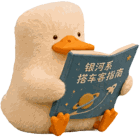
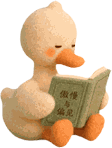
fix(pets): 天鹅/鸭嘴兽素材装反 + 今日页宠物放大并让书名看得清
1) libra(天秤=天鹅) 与 aquarius(水瓶=鸭嘴兽) 的素材整组装反。判据是原型内嵌图的变量名：\n   #68-71=SCENE_SWAN_*、#88-91=SCENE_PLATYPUS_*，#8/#12 的 alt 亦写明「天鹅/鸭嘴兽」。\n   已交换本地 assets/pets/*.png 与云存储 anim/、scene/ 下的同名文件（8 段动图 + 2 张场景图）。\n2) 今日页宠物展示尺寸 540x330 -> 622x380rpx（+15%）：看书时书封面的书名太小看不清。\n3) orange-read.gif 重制为 482x340（2 倍分辨率）+ 多帧采样调色板，\n   原先只用首帧取 256 色，把书名这种小面积深色细节量化糊了。\n4) PET_SHIFT 全表用真实素材重扫：同时修正贴右方向系统性偏大 ~22rpx 的旧值。\n5) 气泡 max-width 350->310rpx 避让放大后的宠物；新增 scripts/scan_pet_shift.py 便于以后重测。

diff --git a/utils/pets.js b/utils/pets.js
@@ -11,7 +11,14 @@
 // 云存储 CDN（权限「所有用户可读」→ 无签名永久链接可直接作 <image> src，image 组件不受域名白名单限制）
 //   anim/  —— 53 段动图 pets/anim/<pet>-<pose>.gif，pose=laptop/frame/read/stand/coffee
 //             + 橘小满 4 段（read=看书 / laptop=敲键盘 / frame=看日落 / coffee=喝咖啡，均已做帧间优化）
+//             橘小满 orange-read.gif 为 482×340（2 倍分辨率，书名压在 GIF 上会糊，见下方说明）
 //   scene/ —— 13 张遇见页场景图 pets/scene/<pet>-scene.png（480×480，带背景）
+//
+// ⚠ 2026-09-19 修正：libra(天秤=天鹅) 与 aquarius(水瓶=鸭嘴兽) 的素材曾**整组装反**。
+//    判据（唯一权威）：原型 prototype/index.html 内嵌图的变量名 —— #68-71 = SCENE_SWAN_*、
+//    #88-91 = SCENE_PLATYPUS_*，而 #8/#12 的 alt 也写明「天鹅/鸭嘴兽」。
+//    已交换本地 assets/pets/{libra,aquarius}*.png 与 CDN anim/、scene/ 下的同名文件。
+//    今后核对素材一律看原型 alt / 变量名，**不要靠画风猜**；PET_SHIFT 需同步重扫。
 const CDN_ROOT = 'https://636c-cloud1-d4gck1kjyb8ca2456-1461749586.tcb.qcloud.la/pets/';
 const ANIM_CDN = CDN_ROOT + 'anim/';
 const SCENE_CDN = CDN_ROOT + 'scene/';
@@ -64,15 +71,17 @@ function zodiacOf(m, d) {
 // —— 今日页「贴边偏移」——
 // 动图素材四周带白边，且每只宠物的本体在画布里的横向位置都不同（留白 20%~36%）。
 // 今日页要让宠物尽量贴住卡片边缘、把另一侧整块留给对话气泡，
-// 所以按展示框 540×330rpx + aspectFit 反算出「把左侧白边推出画框」所需的位移量。
-// 算法：scale=min(540/W,330/H)；图中留白=pictureLeft + bboxLeft*scale；位移=留白-10rpx（留 10rpx 呼吸）。
-// 数值由 scripts/regen_gif.py 同款 bbox 扫描实测得出，换素材后需重测。
+// 所以按展示框 622×380rpx（= .pet-img 的尺寸）+ aspectFit 反算出「把白边推出画框」的位移量。
+// 算法：scale = min(622/W, 380/H)；base = (622 − W·scale)/2
+//   l（贴左）= base + bboxLeft·scale − 10      r（贴右）= base + (W−bboxRight)·scale − 10
+// 数值由 scripts/scan_pet_shift.py 对 CDN 上的真实动图逐帧扫「非白 bbox」实测得出；
+// **换素材、改 .pet-img 尺寸后必须重跑**，否则贴边会错位（2026-09-19 发现旧表的 r 值系统性偏大 ~22rpx，已一并修正）。
 const PET_SHIFT = {
-  orange: { l: 119, r: 141 }, aries: { l: 137, r: 145 }, taurus: { l: 179, r: 199 },
-  gemini: { l: 164, r: 114 }, cancer: { l: 171, r: 118 }, leo: { l: 167, r: 180 },
-  virgo: { l: 152, r: 168 }, libra: { l: 117, r: 153 }, scorpio: { l: 160, r: 110 },
-  sagittarius: { l: 140, r: 133 }, capricorn: { l: 148, r: 164 }, aquarius: { l: 144, r: 184 },
-  pisces: { l: 179, r: 207 }
+  orange: { l: 140, r: 139 }, aries: { l: 157, r: 141 }, taurus: { l: 205, r: 203 },
+  gemini: { l: 188, r: 106 }, cancer: { l: 197, r: 112 }, leo: { l: 192, r: 181 },
+  virgo: { l: 174, r: 170 }, libra: { l: 165, r: 190 }, scorpio: { l: 185, r: 97 },
+  sagittarius: { l: 161, r: 132 }, capricorn: { l: 172, r: 163 }, aquarius: { l: 134, r: 150 },
+  pisces: { l: 208, r: 212 }
 };
 // face='right'（宠物朝右）→ 宠物贴左边；face='left' → 宠物贴右边。
 // 素材左右留白不对称，贴左/贴右是两个不同的位移量（l / r），不能混用。

diff --git a/pages/index/index.js b/pages/index/index.js
@@ -32,7 +32,7 @@ Page({
     pet: { name: '橘小满', emoji: '🐱', img: '/assets/pets/orange.png', read: '/assets/pets/orange-read.png', color: '#ff8a3d' },
     petFace: 'right',
     petErr: false, // CDN 动图拉不到时置真 → 回落本地静态「看书图」
-    petStyle: 'left:-119rpx',
+    petStyle: 'left:-140rpx',
     greetWord: greetingWord(),
     todayText: '',
     tasks: [],

diff --git a/scripts/scan_pet_shift.py b/scripts/scan_pet_shift.py
@@ -1,0 +1,97 @@
+#!/usr/bin/env python3
+# scripts/scan_pet_shift.py
+#
+# 扫描 13 只宠物「read 动图」里宠物本体的非白 bbox，反算今日页的贴边位移 l / r，
+# 直接输出可粘贴进 utils/pets.js 的 PET_SHIFT 代码块。
+#
+# 为什么需要它：
+#   今日页要把宠物推向卡片左/右边缘（把素材自带的四周白边推出画框），
+#   位移量取决于「素材尺寸 × 展示框尺寸 × 本体在图里的位置」，三者任一变化都必须重扫：
+#     · 换了动图素材（如重制高清版、修正配错的图）
+#     · 改了 .pet-img 的 width/height（pages/index/index.wxss）
+#   旧表曾出现 r（贴右）系统性偏大 ~22rpx 的错误（贴左的 l 却吻合），
+#   2026-09-19 对 CDN 真实素材全量重扫后修正 —— 所以务必以本脚本结果为准，别手改数字。
+#
+# 用法：
+#   python3 scripts/scan_pet_shift.py                 # 用默认展示框 622×380（当前线上值）
+#   python3 scripts/scan_pet_shift.py 540 330         # 指定展示框宽高（rpx）
+#
+# 依赖：Pillow + numpy（本机 venv：~/.workbuddy/binaries/python/envs/default/bin/python3）
+import io
+import os
+import sys
+import urllib.request
+
+import numpy as np
+from PIL import Image, ImageSequence
+
+CDN = 'https://636c-cloud1-d4gck1kjyb8ca2456-1461749586.tcb.qcloud.la/pets/anim/'
+CACHE = '/tmp/petread'
+KEYS = ['orange', 'aries', 'taurus', 'gemini', 'cancer', 'leo', 'virgo', 'libra',
+        'scorpio', 'sagittarius', 'capricorn', 'aquarius', 'pisces']
+# 这两只没有 read 段（原型即如此），今日页用站立姿势兜底 —— 与 utils/pets.js 的 anim 字段一致
+SPECIAL = {'sagittarius': 'stand', 'pisces': 'stand'}
+PAD = 10          # 宠物本体距卡片边缘保留的「呼吸」距离（rpx）
+THR = 14          # 判定「非白」的颜色差阈值（白底合成后的 GIF 里，白 = 背景）
+MODEL = {'orange': '橘小满', 'aries': '白羊', 'taurus': '金牛', 'gemini': '双子', 'cancer': '巨蟹',
+         'leo': '狮子', 'virgo': '处女', 'libra': '天秤', 'scorpio': '天蝎',
+         'sagittarius': '射手', 'capricorn': '摩羯', 'aquarius': '水瓶', 'pisces': '双鱼'}
+
+
+def fetch(key, pose):
+    os.makedirs(CACHE, exist_ok=True)
+    path = os.path.join(CACHE, f'{key}-{pose}.gif')
+    if not os.path.exists(path) or os.path.getsize(path) == 0:
+        url = f'{CDN}{key}-{pose}.gif'
+        with urllib.request.urlopen(url, timeout=60) as r, open(path, 'wb') as f:
+            f.write(r.read())
+    return path
+
+
+def bbox_all_frames(path):
+    """所有帧的「非白」像素并集 bbox（动图里宠物会轻微移动，取并集才不会被裁到）"""
+    im = Image.open(path)
+    W, H = im.size
+    left, right = 10 ** 9, -1
+    for fr in ImageSequence.Iterator(im):
+        a = np.asarray(fr.convert('RGB')).astype(np.int16)
+        m = (255 - a).max(axis=2) > THR
+        if not m.any():
+            continue
+        _, xs = np.where(m)
+        left = min(left, int(xs.min()))
+        right = max(right, int(xs.max()))
+    return W, H, left, right
+
+
+def main():
+    fw = int(sys.argv[1]) if len(sys.argv) > 2 else 622
+    fh = int(sys.argv[2]) if len(sys.argv) > 2 else 380
+    rows = {}
+    print(f'展示框 {fw}×{fh}rpx   PAD={PAD}rpx')
+    print('%-13s %-5s %-9s %-7s %-6s %-6s %6s %6s' %
+          ('key', '宠物', '素材', 'scale', 'bboxL', 'bboxR', 'l', 'r'))
+    for k in KEYS:
+        pose = SPECIAL.get(k, 'read')
+        W, H, L, R = bbox_all_frames(fetch(k, pose))
+        s = min(fw / W, fh / H)
+        base = (fw - W * s) / 2
+        l = round(base + L * s - PAD)
+        r = round(base + (W - 1 - R) * s - PAD)
+        rows[k] = (l, r)
+        print('%-13s %-5s %-9s %-7.3f %-6d %-6d %6d %6d' %
+              (k, MODEL[k], f'{W}x{H}', s, L, R, l, r))
+
+    print('\n// —— 粘回 utils/pets.js 的 PET_SHIFT ——')
+    print('const PET_SHIFT = {')
+    chunk = []
+    for k in KEYS:
+        chunk.append(f"{k}: {{ l: {rows[k][0]}, r: {rows[k][1]} }}")
+        if len(chunk) == 3 or k == KEYS[-1]:
+            print('  ' + ', '.join(chunk) + ',')
+            chunk = []
+    print('};')
+
+
+if __name__ == '__main__':
+    main()
